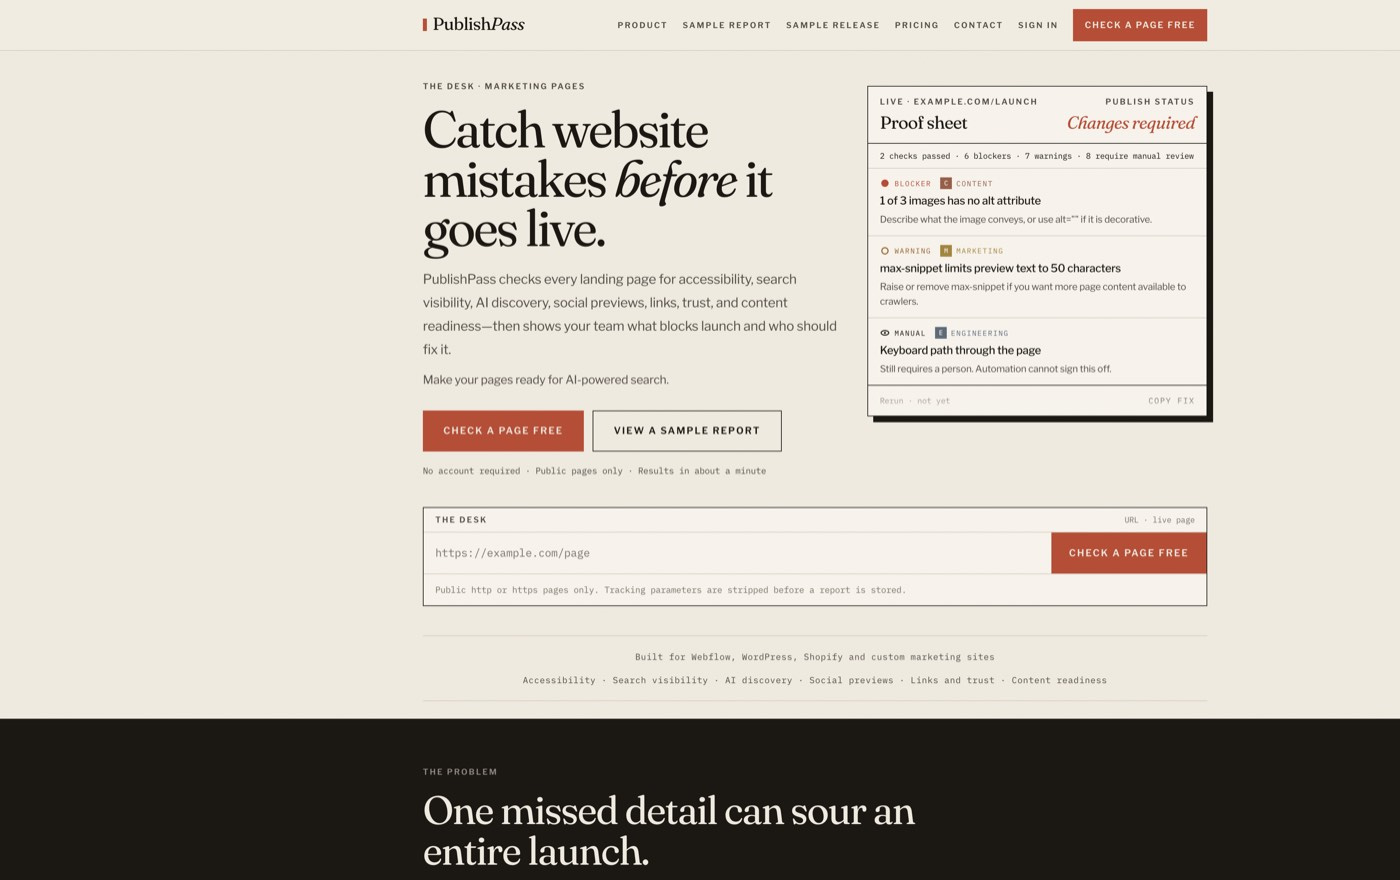
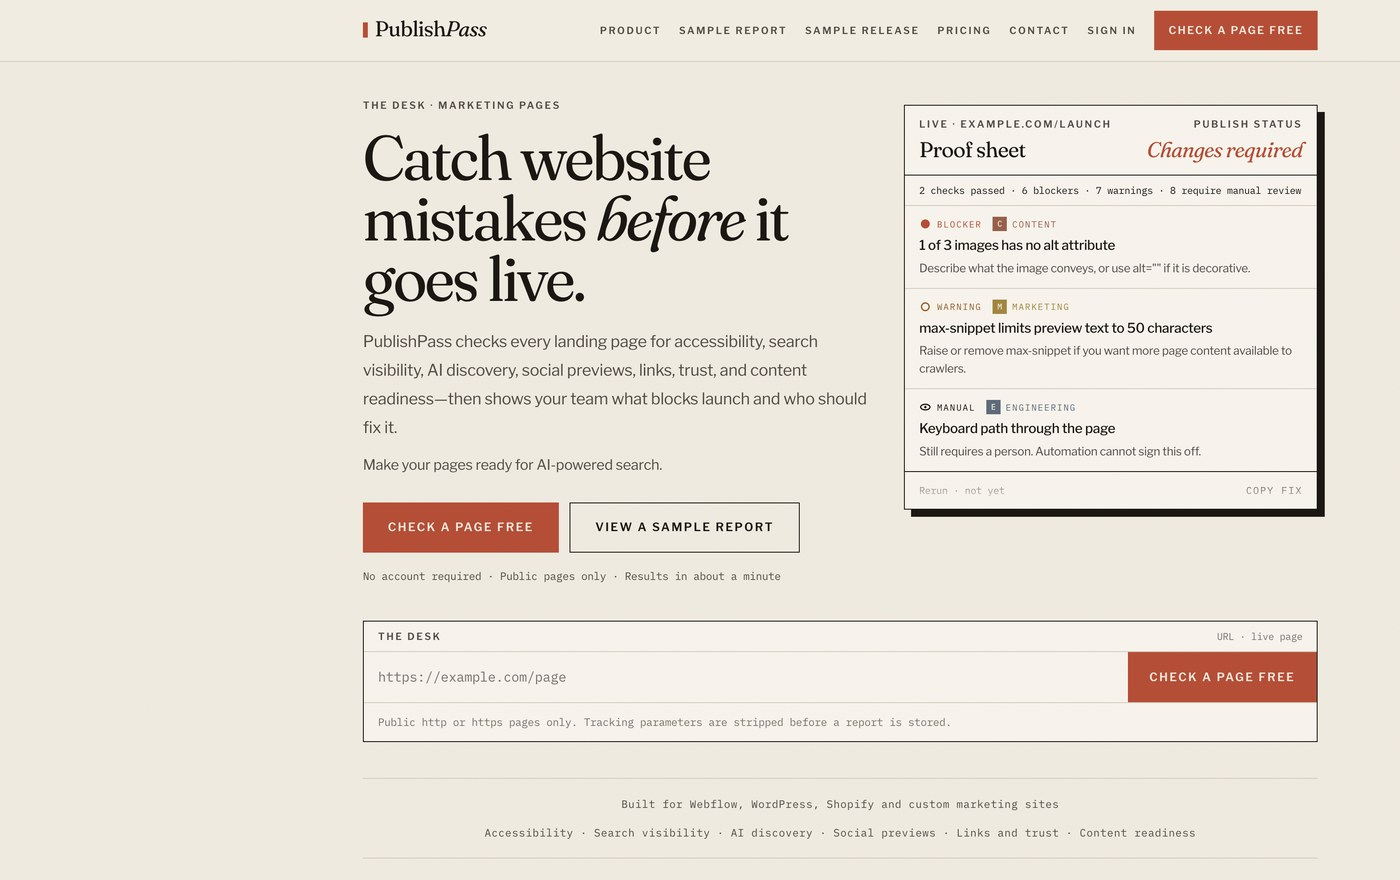
Show PublishPass under Website Branding with a cream hero thumbnail.

diff --git a/app/data/projects.ts b/app/data/projects.ts
@@ -52,7 +52,7 @@ export const projects: Project[] = [
       "Claude AI",
     ],
     image: "/assets/img/works/publishpass.jpg",
-    tags: ["react"],
+    tags: ["react", "branding"],
     links: [{ label: "Live", href: "https://publishguard.vercel.app/" }],
   },
   {
